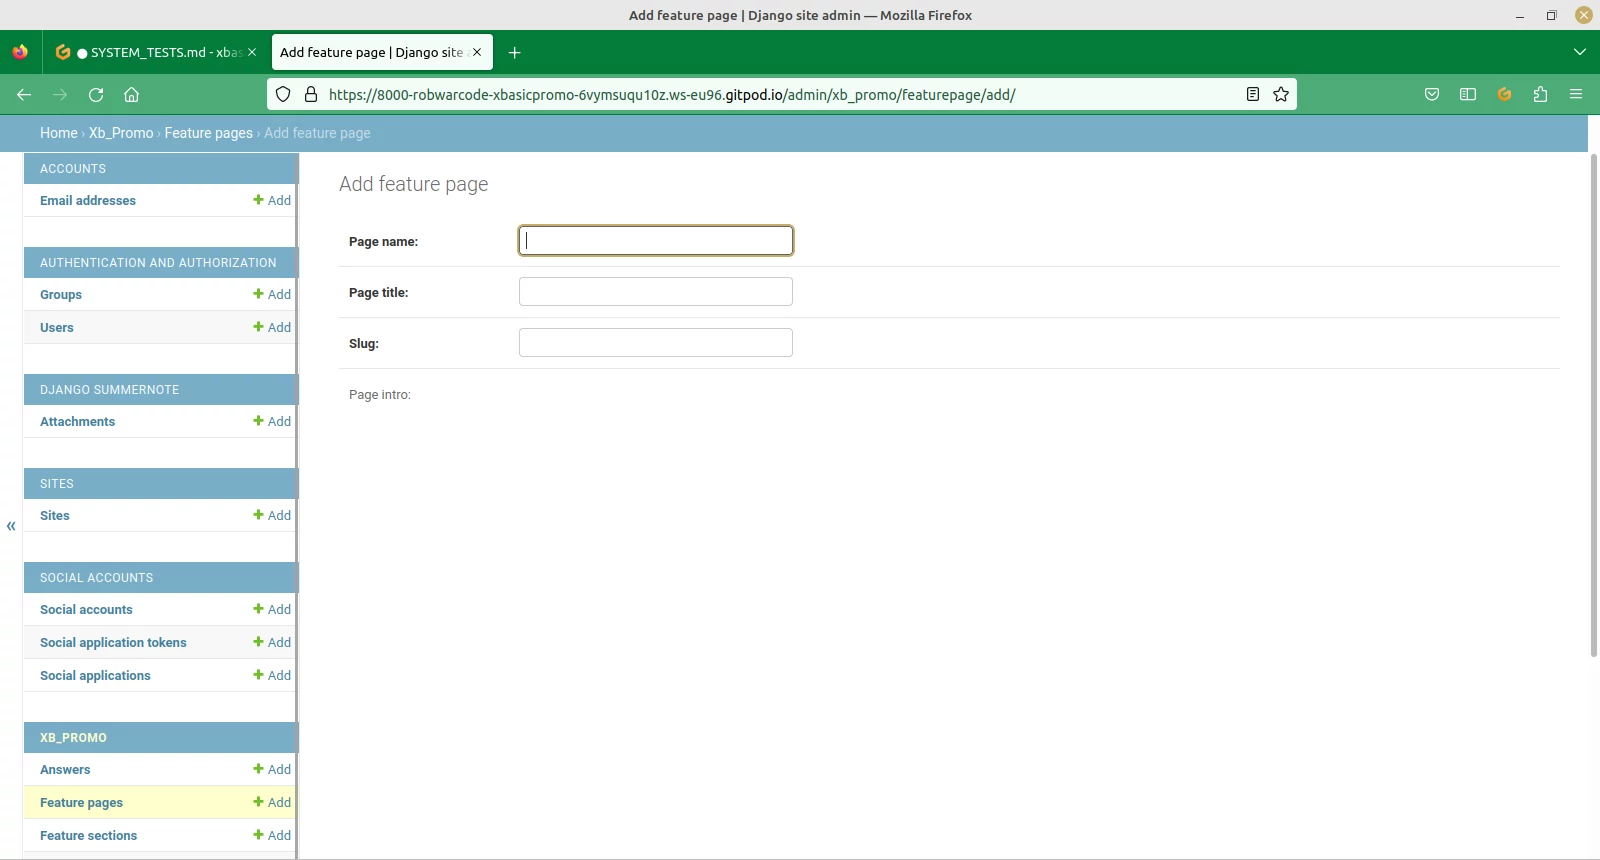
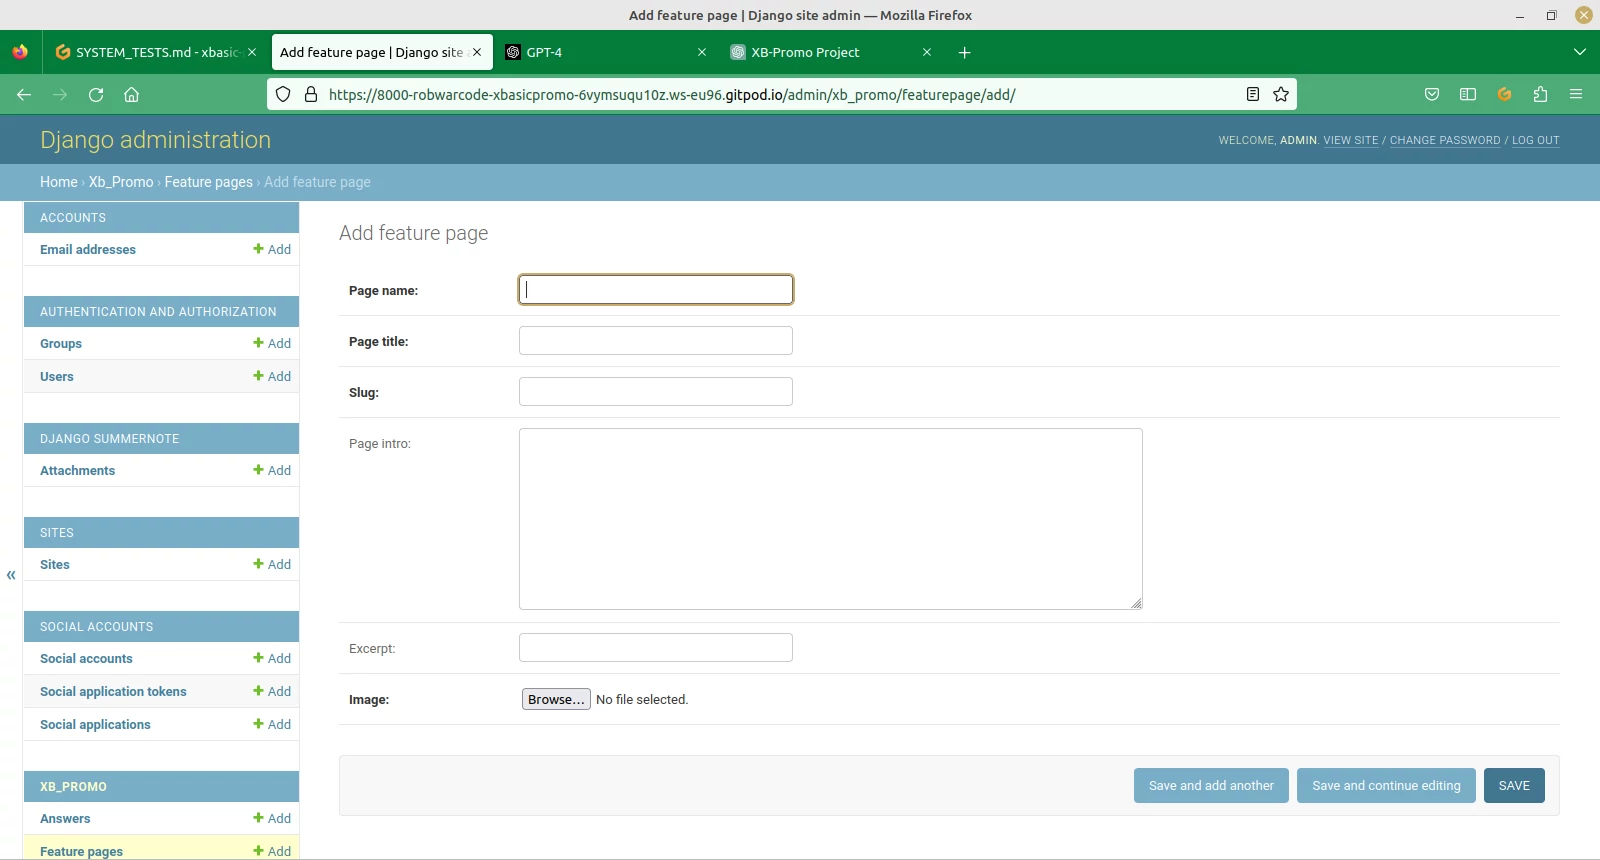
Update admin forms without summernote, complete admin feature page tests

diff --git a/xb_promo/admin.py b/xb_promo/admin.py
@@ -18,23 +18,39 @@ class FeaturePageAdmin(admin.ModelAdmin):
     prepopulated_fields = {'slug': ('page_name', )}
 
 
-class SectionAdmin(SummernoteModelAdmin):
-    summernote_fields = ('article')
+class FeatureSectionForm(forms.ModelForm):
+    class Meta:
+        model = FeatureSection
+        fields = '__all__'
+
+
+@admin.register(FeatureSection)
+class SectionAdmin(admin.ModelAdmin):
+    form = FeatureSectionForm
     list_display = ('feature_page', 'title')
 
 
-admin.site.register(FeatureSection, SectionAdmin)
+class IssueAdminForm(forms.ModelForm):
+    class Meta:
+        model = Issue
+        fields = '__all__'
 
 
 @admin.register(Issue)
-class IssueAdmin(SummernoteModelAdmin):
-    summernote_fields = ('content')
+class IssueAdmin(admin.ModelAdmin):
+    form = IssueAdminForm
     prepopulated_fields = {'slug': ('title', )}
     list_display = ('title', 'date_submitted')
 
 
+class AnswerAdminForm(forms.ModelForm):
+    class Meta:
+        model = Answer
+        fields = '__all__'
+
+
 @admin.register(Answer)
-class AnswerAdmin(SummernoteModelAdmin):
-    summernote_fields = ('content')
+class AnswerAdmin(admin.ModelAdmin):
+    form = AnswerAdminForm
     search_fields = ['related_issue']
     list_display = ('related_issue', "title", "date_submitted")

diff --git a/SYSTEM_TESTS.md b/SYSTEM_TESTS.md
@@ -224,12 +224,23 @@ The administrator can add feature pages
 
 The administrator can edit feature pages
 
-
 The administrator can include a feature page introduction with an image
+
+Site page contents are updated according to the feature page record
+
+![Admin Editor make Change](./doc/screenshots/admin-editor-edit-page.webp)
+
+![Admin Editor page displayed](./doc/screenshots/admin-editor-edit-change.webp)
 
 The administrator can delete feature pages
 
 Confirmation is required for feature page deletion
 
-Site page contents are updated according to the feature page record
+![Admin Editor feature page listed to delete](./doc/screenshots/admin-editor-delete-page-1.webp)
+
+![Admin Editor feature page to be deleted](./doc/screenshots/admin-editor-delete-page-2.webp)
+
+![Admin Editor feature page delete confirmation](./doc/screenshots/admin-editor-delete-page-3.webp)
+
+![Admin Editor feature page delete done](./doc/screenshots/admin-editor-delete-page-4.webp)
 

diff --git a/README.md b/README.md
@@ -35,3 +35,16 @@ xbasic-promo. [Project Planner](https://github.com/users/RobWar-code/projects/4)
 
 Tasks in relation to user stories and other aspects of project work are recorded in
 [Work Log](/doc/work-log.txt)
+
+## Errors / Bug Reports
+
+Problem: Admin Pages, Model Data Editing:
+Status: Fixed
+
+The summernote presentation of the textfields had ceased to work after summernote
+was used on the issues and answers pages. This may be a library usage problem.
+
+Solution:
+
+Withdraw the summernote presentation on the admin pages.
+
